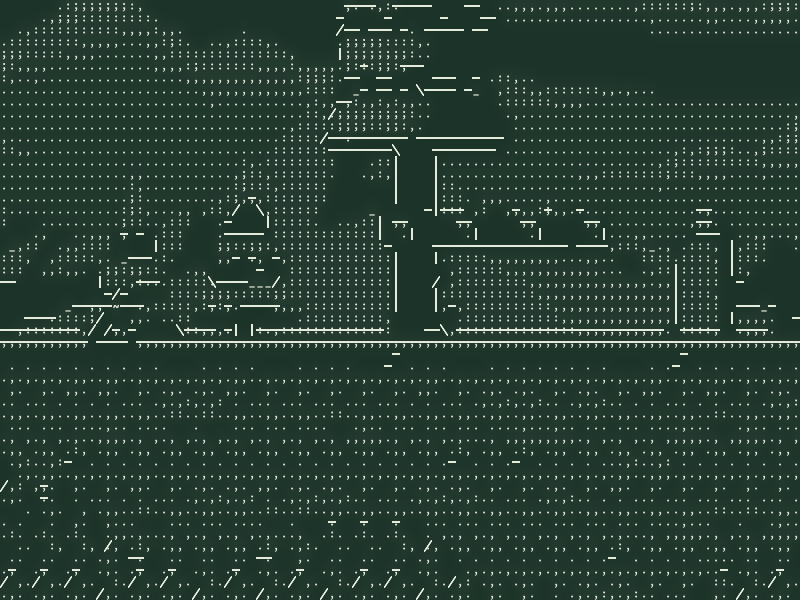
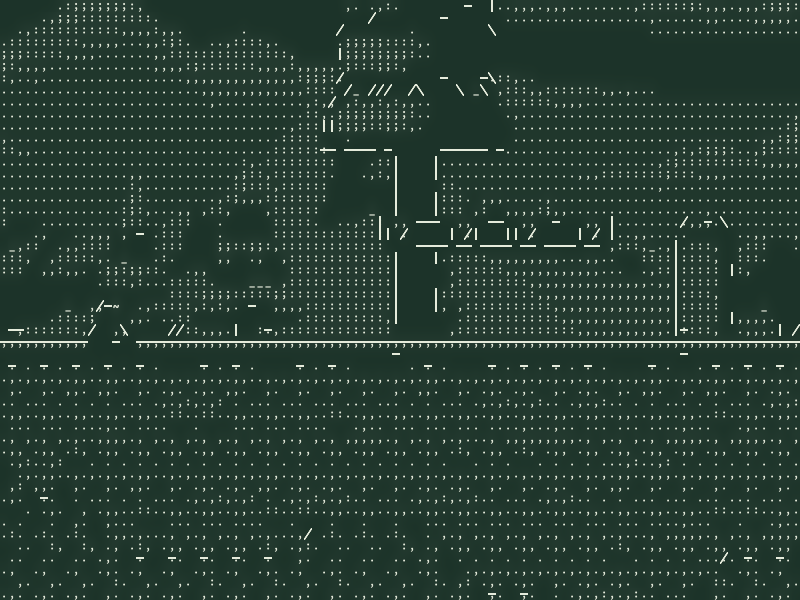
feat: pixel-level difference-of-Gaussians contour detection
The cell-lattice detector could not tell outlined texture from real
silhouettes. Add edge_detector=dog: inside the existing analysis pass,
each cell blurs up to 12x12 samples with two Gaussians, thresholds their
difference into an edge band, runs Sobel on the band and votes per cell,
requiring edge_votes of its samples to agree on a direction.

Thin outlines become contours while smooth gradients and fine texture do
not. New oracle cases lock those three behaviors. All included styles
use the new detector; push constants grow to the 128-byte Vulkan 1.0
limit. The lattice detector remains the default and is unchanged.

diff --git a/tests/smoke/atlas_filter.py b/tests/smoke/atlas_filter.py
@@ -81,6 +81,34 @@ for cw, ch in [(3, 5), (8, 12), (13, 19), (64, 96)]:
             if abs(area - .4) > .01:
                 assert pixel == (b'\xff\xff\xff' if area >= .4 else b'\x00\x00\x00'), (name, x, y, area)
 print('4 crisp-glyph GPU cases passed: binary pixels matching analytic coverage')
+# Difference-of-Gaussians contours: render contours only (no fill), white on
+# black, so every lit pixel is a contour stroke.
+def dog_case(name, pixel):
+    w, h, cw, ch = 64, 48, 8, 12
+    source = args.output / (name + '-source.ppm')
+    source.write_bytes(f'P6\n{w} {h}\n255\n'.encode() +
+                       b''.join(bytes([pixel(x, y)]) * 3 for y in range(h) for x in range(w)))
+    config = args.output / (name + '.conf')
+    config.write_text('render_style=illustrated\ncolor_mode=mono\nglyph_strength=1\n'
+        f'cell_width={cw}\ncell_height={ch}\nfill_enabled=false\ncontour_overlay=false\n'
+        'edge_detector=dog\nforeground=1,1,1\nbackground=0,0,0\n')
+    output = args.output / (name + '.ppm')
+    subprocess.run([str(args.build / 'glyphshift-preview'), str(source), str(config), str(output)], check=True, stdout=subprocess.DEVNULL)
+    rgb = output.read_bytes().split(b'\n', 3)[3]
+    return lambda x, y: rgb[(y * w + x) * 3]
+# A smooth ramp is not an outline.
+lit = dog_case('dog-gradient', lambda x, y: 40 + 3 * x)
+assert not any(lit(x, y) for y in range(48) for x in range(64)), 'DoG drew a contour on a gradient'
+# A one-pixel dark line through column 28 (cell 3, pixel 4) on a bright field
+# becomes a vertical stroke in that cell, through every row.
+lit = dog_case('dog-thin-line', lambda x, y: 30 if x == 28 else 220)
+assert all(lit(28, y) for y in range(12, 36)), 'DoG missed a one-pixel outline'
+assert not any(lit(x, y) for y in range(48) for x in list(range(0, 16)) + list(range(40, 64))), \
+    'DoG drew contours far from the line'
+# Fine checkerboard texture has no coherent direction.
+lit = dog_case('dog-checker', lambda x, y: 220 if (x // 2 + y // 2) % 2 else 30)
+assert not any(lit(x, y) for y in range(12, 36) for x in range(8, 56)), 'DoG outlined texture'
+print('3 DoG contour cases passed: gradient ignored, thin outline found, texture rejected')
 # Structural matching must recover every mixed quadrant silhouette, including
 # dark objects on bright paper, with both source colors and reversed mono ink.
 for mode in ['source', 'mono']:

diff --git a/tests/unit/art_test.cpp b/tests/unit/art_test.cpp
@@ -50,14 +50,20 @@ int main() {
             "contrast=1.2\ntone_gamma=0.8\nedge_strength=0.7\nedge_threshold=0."
             "2\nforeground=0.2,0.3,0.4\nbackground=1,0.9,0.8\n"
             "shape_matching=true\nshape_threshold=0.17\nscene_paper=0.65\n"
-            "saturation=1.6\nglow=0.3\npaper_wash=true\nstability=0.7\ncrisp_glyphs=true\n");
+            "saturation=1.6\nglow=0.3\npaper_wash=true\nstability=0.7\ncrisp_glyphs=true\n"
+            "edge_detector=dog\ndog_sigma=1.4\ndog_threshold=0.03\nedge_votes=0.25\n");
         check(!parsed.warnings && parsed.value.art.illustrated && !parsed.value.art.fill &&
                   !parsed.value.art.contour_overlay && parsed.value.art.saturation == 1.6F &&
                   parsed.value.art.glow == .3F && parsed.value.art.paper_wash &&
-                  parsed.value.art.stability == .7F && parsed.value.art.crisp,
+                  parsed.value.art.stability == .7F && parsed.value.art.crisp &&
+                  parsed.value.art.dog_edges && parsed.value.art.dog_sigma == 1.4F &&
+                  parsed.value.art.dog_threshold == .03F && parsed.value.art.edge_votes == .25F,
             "illustration config");
         check(art_parameters(parsed.value)[16] == 1.6F && art_parameters(parsed.value)[17] == .3F &&
-                  art_parameters(parsed.value)[18] == 3 &&
+                  art_parameters(parsed.value)[18] == 7 &&
+                  art_parameters(parsed.value)[20] == 1.4F &&
+                  art_parameters(parsed.value)[21] == .03F &&
+                  art_parameters(parsed.value)[22] == .25F &&
                   art_parameters(parsed.value)[art_stability] == .7F,
             "saturation, glow and paper wash reach the shared shader parameters");
         check(parse_settings(serialize_settings(parsed.value)).value == parsed.value,
@@ -80,6 +86,10 @@ int main() {
                  "glow=-0.1",
                  "paper_wash=bad",
                  "crisp_glyphs=maybe",
+                 "edge_detector=sobel",
+                 "dog_sigma=0.1",
+                 "dog_threshold=0.5",
+                 "edge_votes=2",
                  "stability=1.5",
                  "stability=-1",
                  "foreground=1,2,0",

diff --git a/src/config/settings.cpp b/src/config/settings.cpp
@@ -259,6 +259,24 @@ ParsedSettings parse_settings(std::string_view text) noexcept {
                 key.starts_with("edge_") || key == "shape_threshold" || key == "scene_paper";
             if (!number(value, *target, edge ? 0 : .25F, edge ? 1 : 4))
                 parsed.warnings |= invalid_art;
+        } else if (key == "edge_detector") {
+            parsed.value.art.dog_edges = value == "dog";
+            if (value != "dog" && value != "lattice")
+                parsed.warnings |= invalid_art;
+        } else if (key == "dog_sigma" || key == "dog_threshold" || key == "edge_votes") {
+            float& target = key == "dog_sigma"       ? parsed.value.art.dog_sigma
+                            : key == "dog_threshold" ? parsed.value.art.dog_threshold
+                                                     : parsed.value.art.edge_votes;
+            target = key == "dog_sigma"       ? defaults.art.dog_sigma
+                     : key == "dog_threshold" ? defaults.art.dog_threshold
+                                              : defaults.art.edge_votes;
+            if (!number(value,
+                    target,
+                    key == "dog_sigma" ? .3F : 0,
+                    key == "dog_sigma"       ? 4
+                    : key == "dog_threshold" ? .2F
+                                             : 1))
+                parsed.warnings |= invalid_art;
         } else if (key == "saturation" || key == "glow" || key == "stability") {
             const bool unit = key != "saturation";
             float& target = key == "glow"        ? parsed.value.art.glow
@@ -351,6 +369,10 @@ ParsedSettings parse_settings(std::string_view text) noexcept {
 
 bool valid_art(const ArtSettings& a) noexcept {
     if (!std::isfinite(a.saturation) || a.saturation < 0 || a.saturation > 2)
+        return false;
+    if (!std::isfinite(a.dog_sigma) || a.dog_sigma < .3F || a.dog_sigma > 4 ||
+        !std::isfinite(a.dog_threshold) || a.dog_threshold < 0 || a.dog_threshold > .2F ||
+        !std::isfinite(a.edge_votes) || a.edge_votes < 0 || a.edge_votes > 1)
         return false;
     for (const float v : {a.exposure, a.contrast, a.gamma})
         if (!std::isfinite(v) || v < .25F || v > 4)

diff --git a/include/glyphshift/config/settings.hpp b/include/glyphshift/config/settings.hpp
@@ -14,6 +14,12 @@ struct ArtSettings {
     bool paper_wash = false;
     // Binary glyph masks: every pixel is ink or paper, like pixel-art glyphs.
     bool crisp = false;
+    // Contour detector: false votes on a 5x5 cell lattice; true uses a
+    // pixel-level difference of Gaussians, voted per cell.
+    bool dog_edges = false;
+    // DoG blur sigma in pixels (0.3..4), band threshold (0..0.2) and the share
+    // of a cell's samples that must agree on a direction (0..1).
+    float dog_sigma = 1.0F, dog_threshold = 0.025F, edge_votes = 0.2F;
     float shape_threshold = 0.2F, scene_paper = 0.0F;
     float exposure = 1.0F, contrast = 1.0F, gamma = 1.0F;
     float edge_strength = 1.0F, edge_threshold = 0.18F;
@@ -38,11 +44,12 @@ struct Settings {
     bool operator==(const Settings&) const = default;
 };
 
-// Five vec4s, shared by the GL uniforms and Vulkan push constants. Renderers
-// zero the last entry (stability) whenever no valid previous frame exists.
+// Six vec4s, shared by the GL uniforms and Vulkan push constants (128 bytes in
+// total, Vulkan 1.0's guaranteed limit). Renderers zero the stability entry
+// whenever no valid previous frame exists.
 inline constexpr std::size_t art_stability = 19;
 
-inline std::array<float, 20> art_parameters(const Settings& s) {
+inline std::array<float, 24> art_parameters(const Settings& s) {
     const auto& a = s.art;
     return {a.exposure,
         a.contrast,
@@ -62,9 +69,13 @@ inline std::array<float, 20> art_parameters(const Settings& s) {
         a.scene_paper,
         a.saturation,
         a.glow,
-        // Bit flags: 1 paper wash, 2 crisp glyphs.
-        (a.paper_wash ? 1.0F : 0.0F) + (a.crisp ? 2.0F : 0.0F),
-        a.stability};
+        // Bit flags: 1 paper wash, 2 crisp glyphs, 4 DoG contours.
+        (a.paper_wash ? 1.0F : 0.0F) + (a.crisp ? 2.0F : 0.0F) + (a.dog_edges ? 4.0F : 0.0F),
+        a.stability,
+        a.dog_sigma,
+        a.dog_threshold,
+        a.edge_votes,
+        0};
 }
 
 enum SettingWarning : std::uint32_t {

diff --git a/src/editor/editor.cpp b/src/editor/editor.cpp
@@ -438,6 +438,37 @@ void controls(State& state,
                 1,
                 "%.2f",
                 ImGuiSliderFlags_AlwaysClamp);
+            if (ImGui::IsItemHovered())
+                ImGui::SetTooltip("Cell lattice detector only.");
+            ImGui::Checkbox("Pixel-level contours (DoG)", &art.dog_edges);
+            if (ImGui::IsItemHovered())
+                ImGui::SetTooltip(
+                    "Trace outlines from every pixel with a difference of Gaussians: thin "
+                    "lines become contours, smooth gradients and fine texture do not.");
+            if (art.dog_edges) {
+                ImGui::SliderFloat("DoG blur",
+                    &art.dog_sigma,
+                    .3F,
+                    4,
+                    "%.2f px",
+                    ImGuiSliderFlags_AlwaysClamp);
+                ImGui::SliderFloat("DoG threshold",
+                    &art.dog_threshold,
+                    0,
+                    .2F,
+                    "%.3f",
+                    ImGuiSliderFlags_AlwaysClamp);
+                if (ImGui::IsItemHovered())
+                    ImGui::SetTooltip("Higher keeps only stronger outlines.");
+                ImGui::SliderFloat("Contour votes",
+                    &art.edge_votes,
+                    0,
+                    1,
+                    "%.2f",
+                    ImGuiSliderFlags_AlwaysClamp);
+                if (ImGui::IsItemHovered())
+                    ImGui::SetTooltip("Share of a cell's pixels that must agree on a direction.");
+            }
             ImGui::ColorEdit3("Ink / contours", art.foreground.data(), ImGuiColorEditFlags_Float);
             if (ImGui::IsItemHovered())
                 ImGui::SetTooltip(

diff --git a/tools/preview.cpp b/tools/preview.cpp
@@ -256,13 +256,13 @@ int main(int argc, char** argv) {
                 glBindFramebuffer(GL_FRAMEBUFFER, cell_fbos[current]);
                 glViewport(0, 0, static_cast<GLsizei>(columns), static_cast<GLsizei>(rows));
                 glUseProgram(analysis);
-                glUniform4fv(glGetUniformLocation(analysis, "art[0]"), 5, art.data());
+                glUniform4fv(glGetUniformLocation(analysis, "art[0]"), 6, art.data());
                 glDrawArrays(GL_TRIANGLES, 0, 3);
                 glBindTexture(GL_TEXTURE_2D, cells[current]);
                 glBindFramebuffer(GL_FRAMEBUFFER, fbo);
                 glViewport(0, 0, static_cast<GLsizei>(width), static_cast<GLsizei>(height));
                 glUseProgram(program);
-                glUniform4fv(glGetUniformLocation(program, "art[0]"), 5, art.data());
+                glUniform4fv(glGetUniformLocation(program, "art[0]"), 6, art.data());
                 glDrawArrays(GL_TRIANGLES, 0, 3);
                 glReadPixels(0,
                     0,

diff --git a/src/config/presets.cpp b/src/config/presets.cpp
@@ -191,6 +191,10 @@ std::string serialize_settings(const Settings& s) {
            "\nscene_paper=" + decimal(s.art.scene_paper) +
            "\npaper_wash=" + (s.art.paper_wash ? "true" : "false") +
            "\ncrisp_glyphs=" + (s.art.crisp ? "true" : "false") +
+           "\nedge_detector=" + (s.art.dog_edges ? "dog" : "lattice") +
+           "\ndog_sigma=" + decimal(s.art.dog_sigma) +
+           "\ndog_threshold=" + decimal(s.art.dog_threshold) +
+           "\nedge_votes=" + decimal(s.art.edge_votes) +
            "\nsaturation=" + decimal(s.art.saturation) + "\nglow=" + decimal(s.art.glow) +
            "\nstability=" + decimal(s.art.stability) + "\nforeground=" + rgb(s.art.foreground) +
            "\nbackground=" + rgb(s.art.background) + "\n";

diff --git a/tests/smoke/run.py b/tests/smoke/run.py
@@ -171,6 +171,8 @@ try:
         # grid holds the same decisions, so ping-pong plumbing is exact.
         characters(art+'stability=1\n')
         assert image(window,'illustrated-stable')==illustrated,'temporal stability changed a static scene'
+        characters(art+'edge_detector=dog\n')
+        assert image(window,'illustrated-dog')!=illustrated,'DoG contours did not change image'
         characters(art+'crisp_glyphs=true\n')
         assert image(window,'illustrated-crisp')!=illustrated,'crisp glyphs did not change image'
         characters(art+'glow=0.8\n')

diff --git a/src/render/vulkan/renderer.cpp b/src/render/vulkan/renderer.cpp
@@ -80,11 +80,11 @@ struct Parameters {
     float width, height, cell_width, cell_height;
     uint32_t source_color, ramp_count, output_srgb;
     float glyph_strength;
-    std::array<float, 20> art;
+    std::array<float, 24> art;
 };
 
-// Vulkan 1.0 guarantees 128 bytes of push constants.
-static_assert(sizeof(Parameters) == 112);
+// Vulkan 1.0 guarantees 128 bytes of push constants: this is the ceiling.
+static_assert(sizeof(Parameters) == 128);
 }  // namespace
 
 void initialize_renderer_api(DeviceDispatch& state) {

diff --git a/src/render/opengl/renderer.cpp b/src/render/opengl/renderer.cpp
@@ -362,7 +362,7 @@ struct Context {
         auto art = art_parameters(settings);
         if (!history)
             art[art_stability] = 0;
-        gl.Uniform4fv(uniforms.art, 5, art.data());
+        gl.Uniform4fv(uniforms.art, 6, art.data());
     }
 
     void viewport(unsigned width, unsigned height) {

diff --git a/docs/implementation/README.md b/docs/implementation/README.md
@@ -455,6 +455,69 @@ updated contour expectation and the four crisp cases. Both API smokes require
 crisp glyphs to change the live image, and their GLX/Vulkan captures were
 identical. Focused editor tests and SuperTux were not run for this step.
 
+## Pixel-level DoG contours (art direction, phase 5, step 2)
+
+The reference shader traces outlines from a per-pixel difference of Gaussians
+and lets an 8×8 tile become a contour when enough of its pixels agree on a
+direction. Our cell lattice (25 box samples per cell) could not tell SuperTux's
+outlined ice texture from silhouettes; thicker strokes in step 1 made that more
+visible.
+
+`edge_detector=dog` (default `lattice`, unchanged) runs this in the existing
+analysis pass, without a new pass. Each cell reads up to 12×12 samples (one per
+pixel for cells up to 12 pixels, a regular stride beyond) plus a three-sample
+border. Two separable Gaussians (σ = `dog_sigma` pixels and 1.6σ, five taps)
+are subtracted and thresholded at `dog_threshold` into a binary edge band.
+Sobel on the band gives each sample's direction class (the same four classes
+as the lattice detector), and the cell's votes need `edge_votes` of its samples
+for a new contour and two thirds of that to keep one (temporal stability). The
+existing dominance rule (at least twice any other axis), contour compositing,
+crisp strokes and hysteresis are shared. `edge_threshold` applies to the
+lattice detector only. Classic and lattice images are unchanged: the default
+illustrated preview stayed pixel-identical before the presets were switched.
+
+| Setting | Range | Default |
+| --- | --- | --- |
+| `edge_detector` | `lattice` / `dog` | `lattice` |
+| `dog_sigma` | 0.3..4 px | 1.0 |
+| `dog_threshold` | 0..0.2 | 0.025 |
+| `edge_votes` | 0..1 | 0.2 |
+
+The defaults come from sweeps on the captured SuperTux frame with Newsprint:
+threshold 0.02 outlined trees but also striped the ice, 0.04 cleaned the ice
+but lost the trees, and larger σ made outlines sparser. At 0.025 and 20% votes
+trees, blocks, the trunk, the arch post and the ground are outlined while most
+ice outlines are rejected. Blueprint at 0.02 regained tree outlines but turned
+the ice into a hatching pattern, so it keeps the defaults. All eight included
+styles plus `illustrated.conf` and `illustrated-ink.conf` now use `dog`.
+
+DoG adds a fourth flag bit (4) and a sixth art vec4 (`dog_sigma`,
+`dog_threshold`, `edge_votes`, unused), so push constants grow from 112 to 128
+bytes, exactly Vulkan 1.0's guaranteed limit. Further parameters will need a
+uniform buffer. The editor shows **Pixel-level contours (DoG)** and its three
+sliders after **Contour threshold**, below the focused tests' clicks.
+
+### Step 2 verification
+
+Three new analytic oracle cases render contours only (white on black): a smooth
+ramp must produce no stroke; a one-pixel dark line must become a vertical
+stroke through every row of its cell with nothing two cells away; a two-pixel
+checkerboard must produce no stroke. Unit tests cover parsing, persistence,
+parameter placement (flags 7, slots 20–22) and invalid values. Both API smokes
+require `edge_detector=dog` to change the live image.
+
+As a rough cost check, 30 frames at 1920×1080 through `glyphshift-preview` took
+about 2.2 s with either detector; the run is dominated by PPM I/O and the
+difference was within noise (below about 1.5 ms per frame) on the RTX 3060 Ti.
+This is not a GPU timer measurement; GPU timing remains a TODO.
+
+Verified on 2026-10-18 on the existing NVIDIA/X11 setup: Debug and Release
+built without warnings; Debug CTest 12/12 and Release 14/14 including both
+graphics smokes with Khronos core/synchronization validation; all glyph SPIR-V
+modules passed `spirv-val`. DoG, crisp and static-stability smoke captures were
+identical between GLX and Vulkan. Focused editor tests and SuperTux were not
+run for this step.
+
 ## Ready-to-use style collection
 
 Eight embedded styles are listed under **Insert → Preset → Included styles**,

diff --git a/tests/README.md b/tests/README.md
@@ -433,6 +433,11 @@ presets do. **Saturation** (0..2) affects source color only. **Glow / ink
 bleed** pulls nearby paper toward the ink of surrounding glyphs: a phosphor
 glow on dark paper, a soft bleed on light paper. Compare 0 and 0.5 with F10.
 
+**Pixel-level contours (DoG)** traces outlines from every pixel with a difference
+of Gaussians: thin outlines become contours while gradients and fine texture do
+not. **DoG threshold** keeps only stronger outlines; **Contour votes** is the
+share of a cell's pixels that must agree. All included styles use it.
+
 **Crisp pixel glyphs** turns every pixel into ink or paper, with no gray
 antialiasing, for a pixel-art look; most included styles enable it.
 
